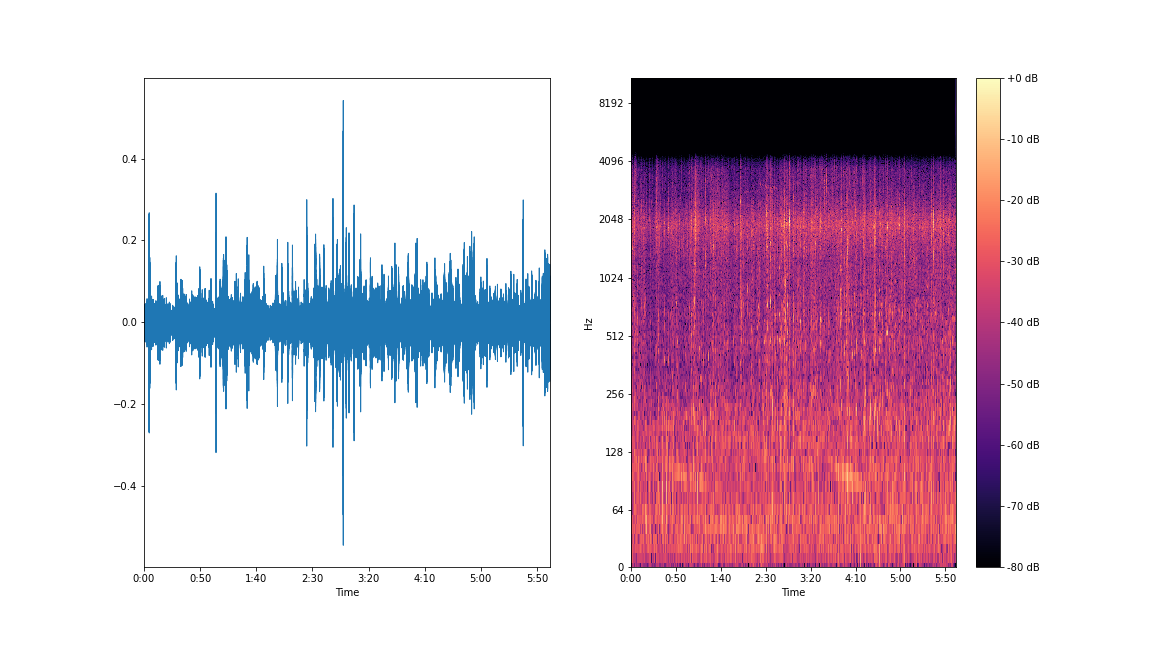
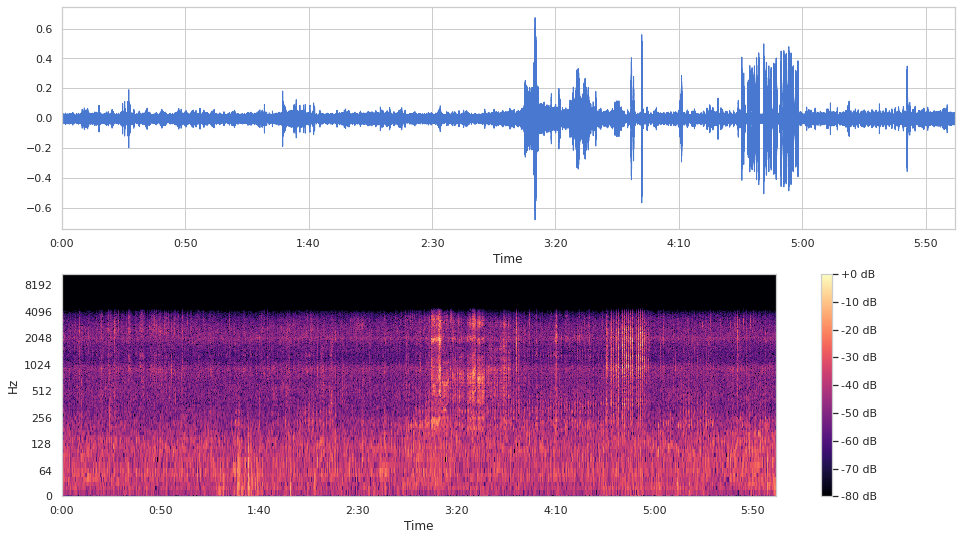
Modified audio_sample figure output

diff --git a/audio_kdd.py b/audio_kdd.py
@@ -31,7 +31,7 @@ df.loc['2020-09-22':, 'rac'] = True  # type: ignore
 file_name = np.random.choice(df['file_name'])
 x, sr = lr.load(file_name)
 
-fig, ax = plt.subplots(1, 2, sharex=True, sharey=False, figsize=(16, 9))
+fig, ax = plt.subplots(2, 1, sharex=False, sharey=False, figsize=(16, 9))
 lrdisp.waveplot(
     x,
     sr=sr,
@@ -43,7 +43,7 @@ img = lrdisp.specshow(lr.amplitude_to_db(np.abs(lr.stft(x)), ref=np.max),
                       ax=ax[1])
 fig.colorbar(img, ax=ax[1], format="%+2.0f dB")
 plt.draw()
-fig.savefig('./audio_sample.png')
+fig.savefig('./audio_sample.png', bbox_inches='tight')
 
 # %% [markdown]
 # # Visualizing basic dataset properties
